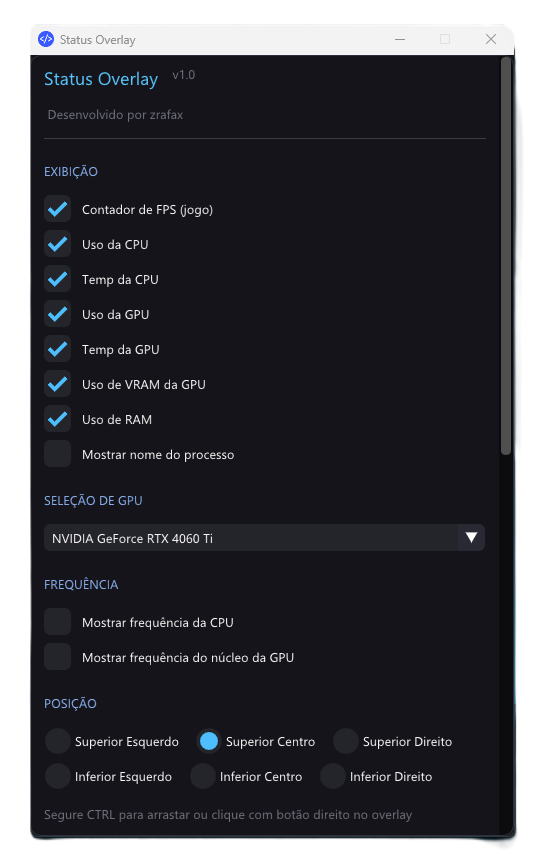
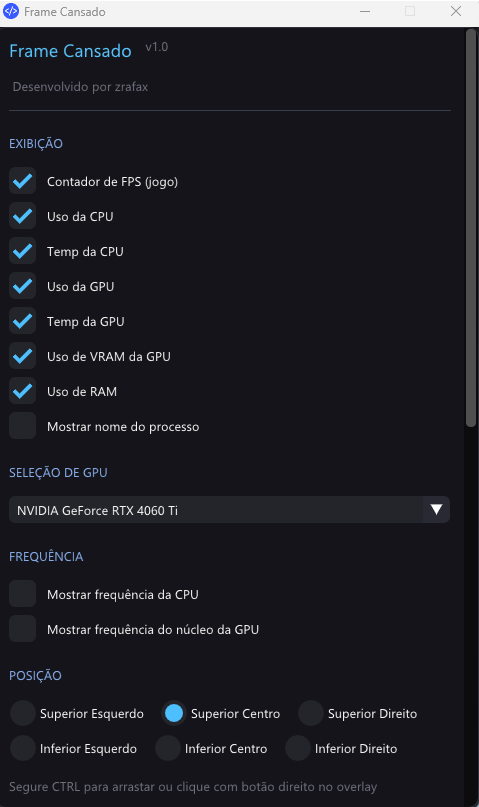
Config

Changed region(s): [[0.0, 0.0, 1.0, 1.0], [0.2923, 0.1239, 0.3507, 0.1549]]

diff --git a/main.cpp b/main.cpp
@@ -88,7 +88,7 @@ static const USHORT DXGKRNL_EVENT_PRESENT_INFO = 0x00B8;  // Present::Info (184)
 static const USHORT DXGKRNL_EVENT_FLIP_INFO = 0x00A8;  // Flip::Info (168)
 static const USHORT DXGKRNL_EVENT_BLIT_INFO = 0x00A6;  // Blit::Info (166)
 
-static const char* ETW_SESSION_NAME = "FPSOverlay_ETW";
+static const char* ETW_SESSION_NAME = "FrameCansado_ETW";
 
 // ═══════════════════════════════════════════════════════════════════════════
 // Configuração
@@ -182,7 +182,7 @@ static void InitConfigPath()
 
     // Anexa o nome do arquivo de configuração
     snprintf(g_configPath, MAX_PATH, "%sconfig.ini", exePath);
-    snprintf(g_pawnioRebootStatePath, MAX_PATH, "%sfpsoverlay-pawnio-reboot.state", exePath);
+    snprintf(g_pawnioRebootStatePath, MAX_PATH, "%sframecansado-pawnio-reboot.state", exePath);
 }
 
 static int ReadIniInt(const char* section, const char* key, int defaultVal)
@@ -230,7 +230,7 @@ static bool WritePawnIORebootPendingStateFile(const char* hex16)
     if (!hex16 || strlen(hex16) != 16) return false;
     InitConfigPath();
     char line[96];
-    snprintf(line, sizeof(line), "FPSOVERLAY_PAWNIO_REBOOT 1 %s\n", hex16);
+    snprintf(line, sizeof(line), "FRAMECANSANDO_PAWNIO_REBOOT 1 %s\n", hex16);
     const DWORD flags = FILE_ATTRIBUTE_NORMAL | FILE_FLAG_WRITE_THROUGH;
     HANDLE h = CreateFileA(g_pawnioRebootStatePath, GENERIC_WRITE, 0, nullptr, CREATE_ALWAYS,
         flags, nullptr);
@@ -261,7 +261,7 @@ static bool ReadPawnIORebootPendingStateFile(char* hexOut, size_t cap)
     buf[rd] = '\0';
     int ver = 0;
     char hexBuf[24] = {};
-    if (sscanf_s(buf, "FPSOVERLAY_PAWNIO_REBOOT %d %23s", &ver, hexBuf, (unsigned)sizeof(hexBuf)) < 2 || ver != 1)
+    if (sscanf_s(buf, "FRAMECANSANDO_PAWNIO_REBOOT %d %23s", &ver, hexBuf, (unsigned)sizeof(hexBuf)) < 2 || ver != 1)
         return false;
     if (strlen(hexBuf) != 16) return false;
     unsigned long long v = 0;
@@ -365,43 +365,6 @@ static void LoadConfig(OverlayConfig& cfg)
         cfg.layoutStyle = LAYOUT_VERTICAL;
     if (cfg.overlayScale < 50) cfg.overlayScale = 50;
     if (cfg.overlayScale > 200) cfg.overlayScale = 200;
-}
-
-// Verifica se a mensagem de boas-vindas já foi exibida (separada da configuração)
-static bool HasWelcomeBeenShown()
-{
-    InitConfigPath();
-    return ReadIniInt("App", "welcomeShown", 0) != 0;
-}
-
-static void MarkWelcomeShown()
-{
-    InitConfigPath();
-    WriteIniInt("App", "welcomeShown", 1);
-}
-
-// Exibe mensagem de boas-vindas na primeira execução
-static void ShowWelcomeMessage()
-{
-    if (HasWelcomeBeenShown()) {
-        return;  // Já foi mostrada antes
-    }
-
-    MessageBoxA(
-        nullptr,
-        "Bem-vindo (Welcome)!\n\n"
-        "Para a melhor experiencia, e recomendado desabilitar outros overlays de FPS:\n\n"
-        "  - Steam Overlay (Steam > Config > Em Jogo)\n"
-        "  - Xbox Game Bar (Config do Windows > Jogos)\n"
-        "  - NVIDIA GeForce Experience Overlay/NVIDIA ShadowPlay/NVIDIA App\n"
-        "  - AMD Radeon Software Overlay\n\n"
-        "Isso evita conflitos e garante leituras de FPS precisas.\n\n"
-        "By: zRaFax",
-        "StatusOverlay",
-        MB_OK | MB_ICONINFORMATION | MB_TOPMOST
-    );
-
-    MarkWelcomeShown();
 }
 
 static void SaveConfig(const OverlayConfig& cfg)
@@ -510,7 +473,7 @@ static void CheckForUpdatesAsync()
         }
 
         HINTERNET hRequest = WinHttpOpenRequest(hConnect, L"GET",
-            L"/repos/zRafaX/StatusOverlay/releases/latest",
+            L"/repos/zRafaX/FrameCansado/releases/latest",
             nullptr, WINHTTP_NO_REFERER,
             WINHTTP_DEFAULT_ACCEPT_TYPES,
             WINHTTP_FLAG_SECURE);
@@ -1103,7 +1066,7 @@ static bool GetBundledPawnIOSetupVersion(DWORD* verMS, DWORD* verLS)
     char tempFile[MAX_PATH];
     if (GetTempPathA(MAX_PATH, tempPath) == 0)
         return false;
-    snprintf(tempFile, MAX_PATH, "%sFPSOverlay_PawnIO_setup_%llu.exe", tempPath,
+    snprintf(tempFile, MAX_PATH, "%sFrameCansado_PawnIO_setup_%llu.exe", tempPath,
         (unsigned long long)GetTickCount64());
     if (!WriteEmbeddedPawnIOSetupToPath(tempFile))
         return false;
@@ -1486,12 +1449,12 @@ static void ForceShowPawnIORestartRequiredDialogThenExit(const wchar_t* situatio
     _snwprintf_s(body, _TRUNCATE,
         L"%s\n\n"
         L"Importante: salve seu trabalho em outros aplicativos antes de reiniciar. Dados não salvos podem ser perdidos.\n\n"
-        L"É necessário um reinício completo do sistema antes que o FPS Overlay possa ser executado.\n\n"
-        L"Sim \u2014 reiniciar este PC agora (o FPS Overlay será fechado primeiro)\n"
-        L"Não \u2014 reiniciar mais tarde (o FPS Overlay será fechado; use Iniciar \u2192 Energia \u2192 Reiniciar quando estiver pronto)\n\n",
+        L"É necessário um reinício completo do sistema antes que o Overlay possa ser executado.\n\n"
+        L"Sim \u2014 reiniciar este PC agora (o Overlay será fechado primeiro)\n"
+        L"Não \u2014 reiniciar mais tarde (o Overlay será fechado; use Iniciar \u2192 Energia \u2192 Reiniciar quando estiver pronto)\n\n",
         situationLead ? situationLead : L"");
 
-    const int r = MessageBoxW(nullptr, body, L"FPS Overlay \u2014 Reinício necessário", kMb);
+    const int r = MessageBoxW(nullptr, body, L"Software \u2014 Reinício necessário", kMb);
 
     if (r == IDYES) {
         if (AcquireShutdownPrivilege()) {
@@ -1501,8 +1464,8 @@ static void ForceShowPawnIORestartRequiredDialogThenExit(const wchar_t* situatio
         }
         MessageBoxW(nullptr,
             L"Não foi possível iniciar um reinício automático. Reinicie seu PC manualmente "
-            L"(Iniciar \u2192 Energia \u2192 Reiniciar) e inicie o FPS Overlay novamente.",
-            L"FPS Overlay",
+            L"(Iniciar \u2192 Energia \u2192 Reiniciar) e inicie o Overlay novamente.",
+            L"Overlay",
             MB_OK | MB_ICONINFORMATION | MB_TOPMOST | MB_SETFOREGROUND | MB_SYSTEMMODAL);
     }
     ExitProcess(0);
@@ -1534,10 +1497,10 @@ static void CheckPawnIORebootGateOrExit()
     FILETIME marker = {};
     if (!ReadPawnIOInstallMarkerFileTime(&marker)) {
         ForceShowPawnIORestartRequiredDialogThenExit(
-            L"O FPS Overlay está aguardando um reinício do sistema após a instalação ou atualização do PawnIO, "
+            L"O Overlay está aguardando um reinício do sistema após a instalação ou atualização do PawnIO, "
             L"mas o marcador de reinício no config.ini está ausente ou inválido.\n\n"
             L"Se isso persistir após reiniciar o Windows, exclua PawnIORequiresReboot e "
-            L"PawnIOInstallUtcHex em [App] no config.ini e exclua fpsoverlay-pawnio-reboot.state "
+            L"PawnIOInstallUtcHex em [App] no config.ini e exclua framecansado-pawnio-reboot.state "
             L"ao lado de overlay.exe.");
         return;
     }
@@ -1558,13 +1521,13 @@ static void CheckPawnIORebootGateOrExit()
 
     if (!haveBootApprox && !haveBootWmi) {
         ForceShowPawnIORestartRequiredDialogThenExit(
-            L"O FPS Overlay não pode verificar se este PC foi reiniciado desde a instalação ou atualização do PawnIO "
+            L"O Overlay não pode verificar se este PC foi reiniciado desde a instalação ou atualização do PawnIO "
             L"(o Windows não conseguiu relatar a hora da última inicialização). Um reinício completo ainda é necessário.");
         return;
     }
 
     ForceShowPawnIORestartRequiredDialogThenExit(
-        L"Você deve reiniciar o Windows antes de usar o FPS Overlay.\n\n"
+        L"Você deve reiniciar o Windows antes de usar o Overlay.\n\n"
         L"O PawnIO foi instalado ou atualizado anteriormente e esta sessão ainda não concluiu um reinício completo do sistema.");
 }
 
@@ -1581,7 +1544,7 @@ static bool ExtractAndRunPawnIOSetup()
     char tempFile[MAX_PATH];
     if (GetTempPathA(MAX_PATH, tempPath) == 0)
         return false;
-    snprintf(tempFile, MAX_PATH, "%sFPSOverlay_PawnIO_setup_run_%llu.exe", tempPath,
+    snprintf(tempFile, MAX_PATH, "%sFrameCansado_PawnIO_setup_run_%llu.exe", tempPath,
         (unsigned long long)GetTickCount64());
     if (!WriteEmbeddedPawnIOSetupToPath(tempFile))
         return false;
@@ -1639,12 +1602,12 @@ static void EnforcePawnIOOrExit()
         if (!IsPawnIOInstalled()) {
             int r = MessageBoxW(
                 nullptr,
-                L"O driver PawnIO é necessário para o FPS Overlay.\n\n"
+                L"O driver PawnIO é necessário para o Overlay.\n\n"
                 L"O LibreHardwareMonitor o usa para temperaturas de CPU e GPU. "
                 L"O aplicativo não pode continuar sem ele.\n\n"
                 L"Clique em OK para instalar o PawnIO.\n"
                 L"Clique em Cancelar para sair.",
-                L"FPS Overlay \u2014 PawnIO necessário",
+                L"Overlay \u2014 PawnIO necessário",
                 MB_OKCANCEL | MB_ICONWARNING | MB_TOPMOST);
             if (r != IDOK)
                 ExitProcess(1);
@@ -1653,15 +1616,15 @@ static void EnforcePawnIOOrExit()
                     L"A instalação do PawnIO não foi concluída com sucesso. O instalador saiu com um erro "
                     L"(por exemplo, uma compilação existente do PawnIO deve ser removida primeiro).\n\n"
                     L"Desinstale o PawnIO em Config do Windows \u2192 Aplicativos \u2192 Aplicativos instalados e clique em OK novamente aqui.",
-                    L"FPS Overlay", MB_OK | MB_ICONERROR | MB_TOPMOST);
+                    L"Overlay", MB_OK | MB_ICONERROR | MB_TOPMOST);
                 continue;
             }
             if (!CommitPawnIORebootPendingToIni()) {
                 MessageBoxW(nullptr,
-                    L"O FPS Overlay não pôde salvar o requisito de reinicialização (config.ini ou "
-                    L"fpsoverlay-pawnio-reboot.state ao lado de overlay.exe). Verifique se a pasta pode ser gravada "
+                    L"O Overlay não pôde salvar o requisito de reinicialização (config.ini ou "
+                    L"framecansado-pawnio-reboot.state ao lado de overlay.exe). Verifique se a pasta pode ser gravada "
                     L"e tente instalar o PawnIO novamente.",
-                    L"FPS Overlay",
+                    L"Overlay",
                     MB_OK | MB_ICONERROR | MB_TOPMOST);
                 ExitProcess(1);
             }
@@ -1671,12 +1634,12 @@ static void EnforcePawnIOOrExit()
         if (IsPawnIOOutdatedVsBundled()) {
             int r = MessageBoxW(
                 nullptr,
-                L"Seu driver PawnIO é mais antigo que a versão incluída no FPS Overlay.\n\n"
+                L"Seu driver PawnIO é mais antigo que a versão incluída no Overlay.\n\n"
                 L"Um PawnIO desatualizado pode quebrar o LibreHardwareMonitor (temperaturas ausentes ou erradas). "
                 L"Você deve atualizar para continuar.\n\n"
                 L"Clique em OK para atualizar agora (substitui a instalação existente).\n"
                 L"Clique em Cancelar para sair.",
-                L"FPS Overlay \u2014 Atualização do PawnIO necessária",
+                L"Overlay \u2014 Atualização do PawnIO necessária",
                 MB_OKCANCEL | MB_ICONWARNING | MB_TOPMOST);
             if (r != IDOK)
                 ExitProcess(1);
@@ -1685,15 +1648,15 @@ static void EnforcePawnIOOrExit()
                     L"A atualização do PawnIO não foi concluída com sucesso. O instalador saiu com um erro "
                     L"(por exemplo, a versão antiga deve ser removida antes de instalar novamente).\n\n"
                     L"Desinstale o PawnIO em Config do Windows \u2192 Aplicativos \u2192 Aplicativos instalados e clique em OK novamente aqui.",
-                    L"FPS Overlay", MB_OK | MB_ICONERROR | MB_TOPMOST);
+                    L"Overlay", MB_OK | MB_ICONERROR | MB_TOPMOST);
                 continue;
             }
             if (!CommitPawnIORebootPendingToIni()) {
                 MessageBoxW(nullptr,
-                    L"O FPS Overlay não pôde salvar o requisito de reinicialização (config.ini ou "
-                    L"fpsoverlay-pawnio-reboot.state ao lado de overlay.exe). Verifique se a pasta pode ser gravada "
+                    L"O Overlay não pôde salvar o requisito de reinicialização (config.ini ou "
+                    L"framecansado-pawnio-reboot.state ao lado de overlay.exe). Verifique se a pasta pode ser gravada "
                     L"e tente atualizar o PawnIO novamente.",
-                    L"FPS Overlay",
+                    L"Overlay",
                     MB_OK | MB_ICONERROR | MB_TOPMOST);
                 ExitProcess(1);
             }
@@ -2314,7 +2277,7 @@ void AddTrayIcon()
     g_nid.hIcon = LoadIcon(g_hInstance, MAKEINTRESOURCE(1));
     if (!g_nid.hIcon)
         g_nid.hIcon = LoadIcon(nullptr, IDI_APPLICATION);
-    lstrcpy(g_nid.szTip, "Status Overlay");
+    lstrcpy(g_nid.szTip, "Frame Cansado");
     Shell_NotifyIcon(NIM_ADD, &g_nid);
 }
 
@@ -2323,10 +2286,10 @@ void RemoveTrayIcon() { Shell_NotifyIcon(NIM_DELETE, &g_nid); }
 void UpdateTrayTooltip()
 {
     if (g_updateAvailable) {
-        snprintf(g_nid.szTip, sizeof(g_nid.szTip), "Status Overlay - Update ! (%s)", g_latestVersion);
+        snprintf(g_nid.szTip, sizeof(g_nid.szTip), "Frame Cansado - Update ! (%s)", g_latestVersion);
     }
     else {
-        lstrcpy(g_nid.szTip, "Status Overlay");
+        lstrcpy(g_nid.szTip, "Frame Cansado");
     }
     Shell_NotifyIcon(NIM_MODIFY, &g_nid);
 }
@@ -2449,7 +2412,7 @@ void SwitchToOverlay()
 
     g_hwnd = CreateWindowEx(
         exStyle,
-        "FPSOverlay", "Status Overlay", WS_POPUP,
+        "FrameCansado", "Frame Cansado", WS_POPUP,
         wa.left, wa.top, w, h, nullptr, nullptr, g_hInstance, nullptr);
 
     SetLayeredWindowAttributes(g_hwnd, RGB(0, 0, 0), 255, LWA_ALPHA);
@@ -2476,7 +2439,7 @@ void SwitchToConfig()
     const int ch = 820;
     int cx = (GetSystemMetrics(SM_CXSCREEN) - kConfigDlgOuterW) / 2;
     int cy = (GetSystemMetrics(SM_CYSCREEN) - ch) / 2;
-    g_hwnd = CreateWindowEx(0, "FPSOverlay", "Status Overlay",
+    g_hwnd = CreateWindowEx(0, "FrameCansado", "Frame Cansado",
         WS_OVERLAPPED | WS_CAPTION | WS_SYSMENU | WS_MINIMIZEBOX | WS_THICKFRAME,
         cx, cy, kConfigDlgOuterW, ch, nullptr, nullptr, g_hInstance, nullptr);
 
@@ -2539,9 +2502,6 @@ int WINAPI WinMain(HINSTANCE hInst, HINSTANCE, LPSTR, int)
     // ── Verifica atualizações em segundo plano ──
     CheckForUpdatesAsync();
 
-    // ── Exibe mensagem de boas-vindas na primeira execução ──
-    ShowWelcomeMessage();
-
     // ── Consulta hardware ──
     QueryCpuName();
 
@@ -2555,14 +2515,14 @@ int WINAPI WinMain(HINSTANCE hInst, HINSTANCE, LPSTR, int)
     wc.hCursor = LoadCursor(nullptr, IDC_ARROW);
     wc.hIcon = hIcon;
     wc.hIconSm = hIcon;
-    wc.lpszClassName = "FPSOverlay";
+    wc.lpszClassName = "FrameCansado";
     RegisterClassEx(&wc);
 
     // ── Janela de configuração (largura fixa; redimensionável verticalmente via WM_GETMINMAXINFO) ──
     const int ch = 820;
     int cx = (GetSystemMetrics(SM_CXSCREEN) - kConfigDlgOuterW) / 2;
     int cy = (GetSystemMetrics(SM_CYSCREEN) - ch) / 2;
-    g_hwnd = CreateWindowEx(0, wc.lpszClassName, "Status Overlay",
+    g_hwnd = CreateWindowEx(0, wc.lpszClassName, "Frame Cansado",
         WS_OVERLAPPED | WS_CAPTION | WS_SYSMENU | WS_MINIMIZEBOX | WS_THICKFRAME,
         cx, cy, kConfigDlgOuterW, ch, nullptr, nullptr, hInst, nullptr);
     if (!g_hwnd) return 1;
@@ -2571,7 +2531,7 @@ int WINAPI WinMain(HINSTANCE hInst, HINSTANCE, LPSTR, int)
     g_isAdmin = IsRunningAsAdmin();
 
     if (!CreateDeviceD3D(g_hwnd)) {
-        MessageBox(g_hwnd, "Falha na inicialização do DirectX 11.", "Status Overlay", MB_OK | MB_ICONERROR);
+        MessageBox(g_hwnd, "Falha na inicialização do DirectX 11.", "Frame Cansado", MB_OK | MB_ICONERROR);
         CleanupDeviceD3D(); return 1;
     }
 
@@ -2698,7 +2658,7 @@ int WINAPI WinMain(HINSTANCE hInst, HINSTANCE, LPSTR, int)
 
             // ── Título ──
             ImGui::SetWindowFontScale(1.4f);
-            ImGui::TextColored(ImVec4(.35f, .78f, 1, 1), "Status Overlay");
+            ImGui::TextColored(ImVec4(.35f, .78f, 1, 1), "Frame Cansado");
             ImGui::SetWindowFontScale(1.0f);
             ImGui::SameLine(); ImGui::TextColored(ImVec4(.45f, .45f, .5f, 1), " %s", APP_VERSION);
 
@@ -2710,7 +2670,7 @@ int WINAPI WinMain(HINSTANCE hInst, HINSTANCE, LPSTR, int)
                 ImGui::PushStyleColor(ImGuiCol_Text, ImVec4(.2f, .9f, .4f, 1));
                 if (ImGui::SmallButton("Update")) {
                     ShellExecuteA(nullptr, "open",
-                        "https://github.com/zRafaX/StatusOverlay/releases/latest",
+                        "https://github.com/zRafaX/FrameCansado/releases/latest",
                         nullptr, nullptr, SW_SHOWNORMAL);
                 }
                 ImGui::PopStyleColor();
@@ -2957,7 +2917,7 @@ int WINAPI WinMain(HINSTANCE hInst, HINSTANCE, LPSTR, int)
 
             // ── HARDWARE ──
             ImGui::Spacing(); ImGui::Spacing();
-            ImGui::TextColored(ImVec4(.55f, .70f, .95f, 1), "HARDWARE DETECTADO");
+            ImGui::TextColored(ImVec4(.55f, .70f, .95f, 1), "PC BATATA DETECTADO");
             ImGui::Spacing();
             ImGui::TextColored(ImVec4(.50f, .50f, .55f, 1), "CPU:  %s", g_cpuName);
             ImGui::TextColored(ImVec4(.50f, .50f, .55f, 1), "GPU:  %s", g_gpuName);
@@ -3808,7 +3768,7 @@ int WINAPI WinMain(HINSTANCE hInst, HINSTANCE, LPSTR, int)
     ImGui::DestroyContext();
     CleanupDeviceD3D();
     DestroyWindow(g_hwnd);
-    UnregisterClass("FPSOverlay", g_hInstance);
+    UnregisterClass("FrameCansado", g_hInstance);
     ShutdownWMI();
 
     return 0;
@@ -3892,7 +3852,7 @@ LRESULT CALLBACK WndProc(HWND hWnd, UINT msg, WPARAM wParam, LPARAM lParam)
             switch (cmd) {
             case IDM_UPDATE:
                 ShellExecuteA(nullptr, "open",
-                    "https://github.com/zRafaX/StatusOverlay/releases/latest",
+                    "https://github.com/zRafaX/FrameCansado/releases/latest",
                     nullptr, nullptr, SW_SHOWNORMAL);
                 break;
             case IDM_SHOW:     g_OvlVisible = true;            break;